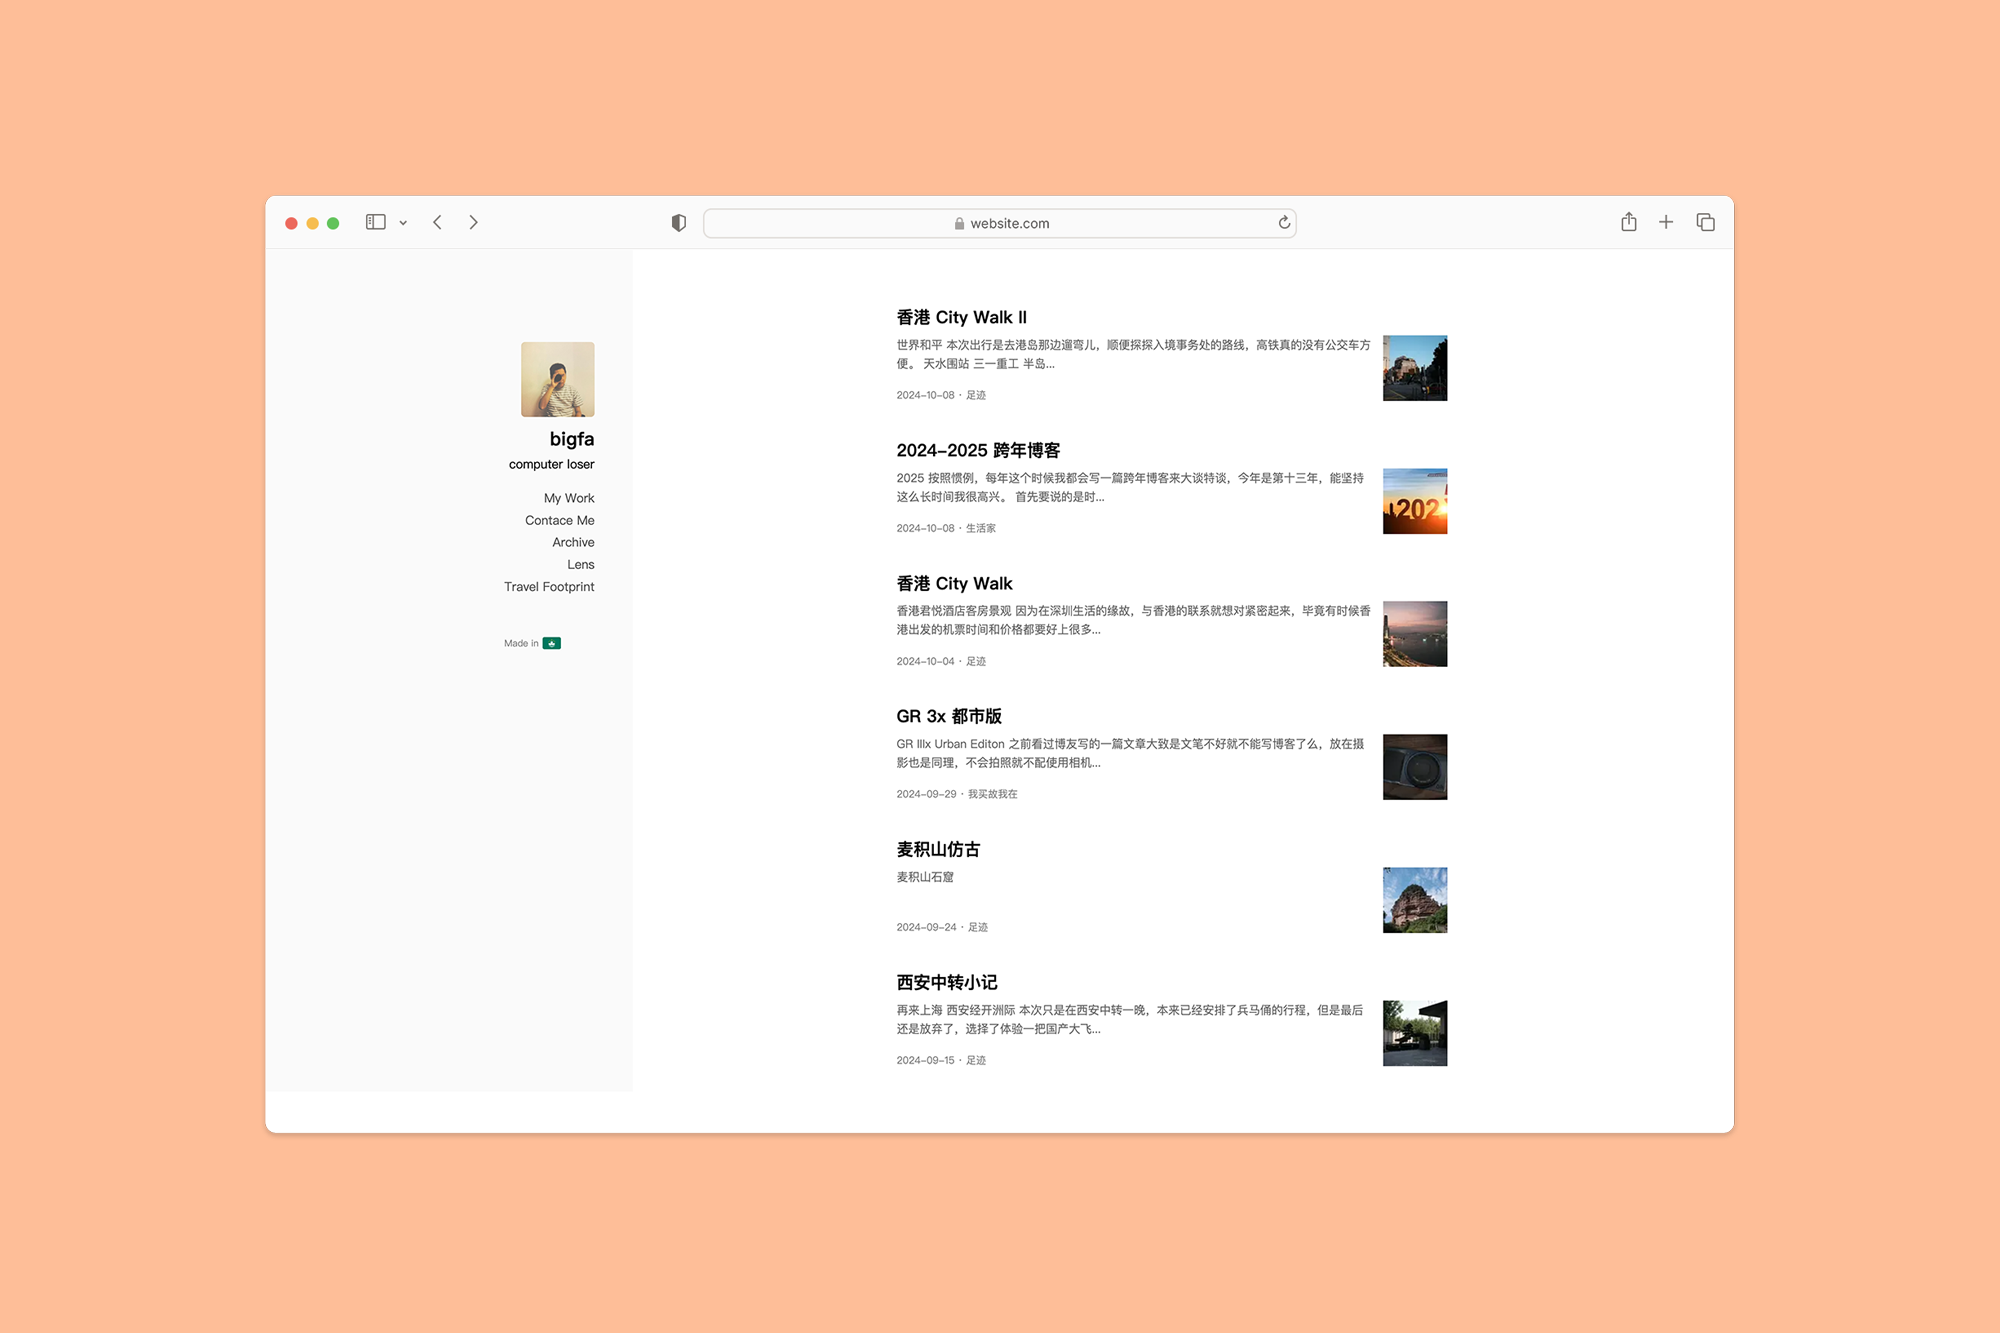
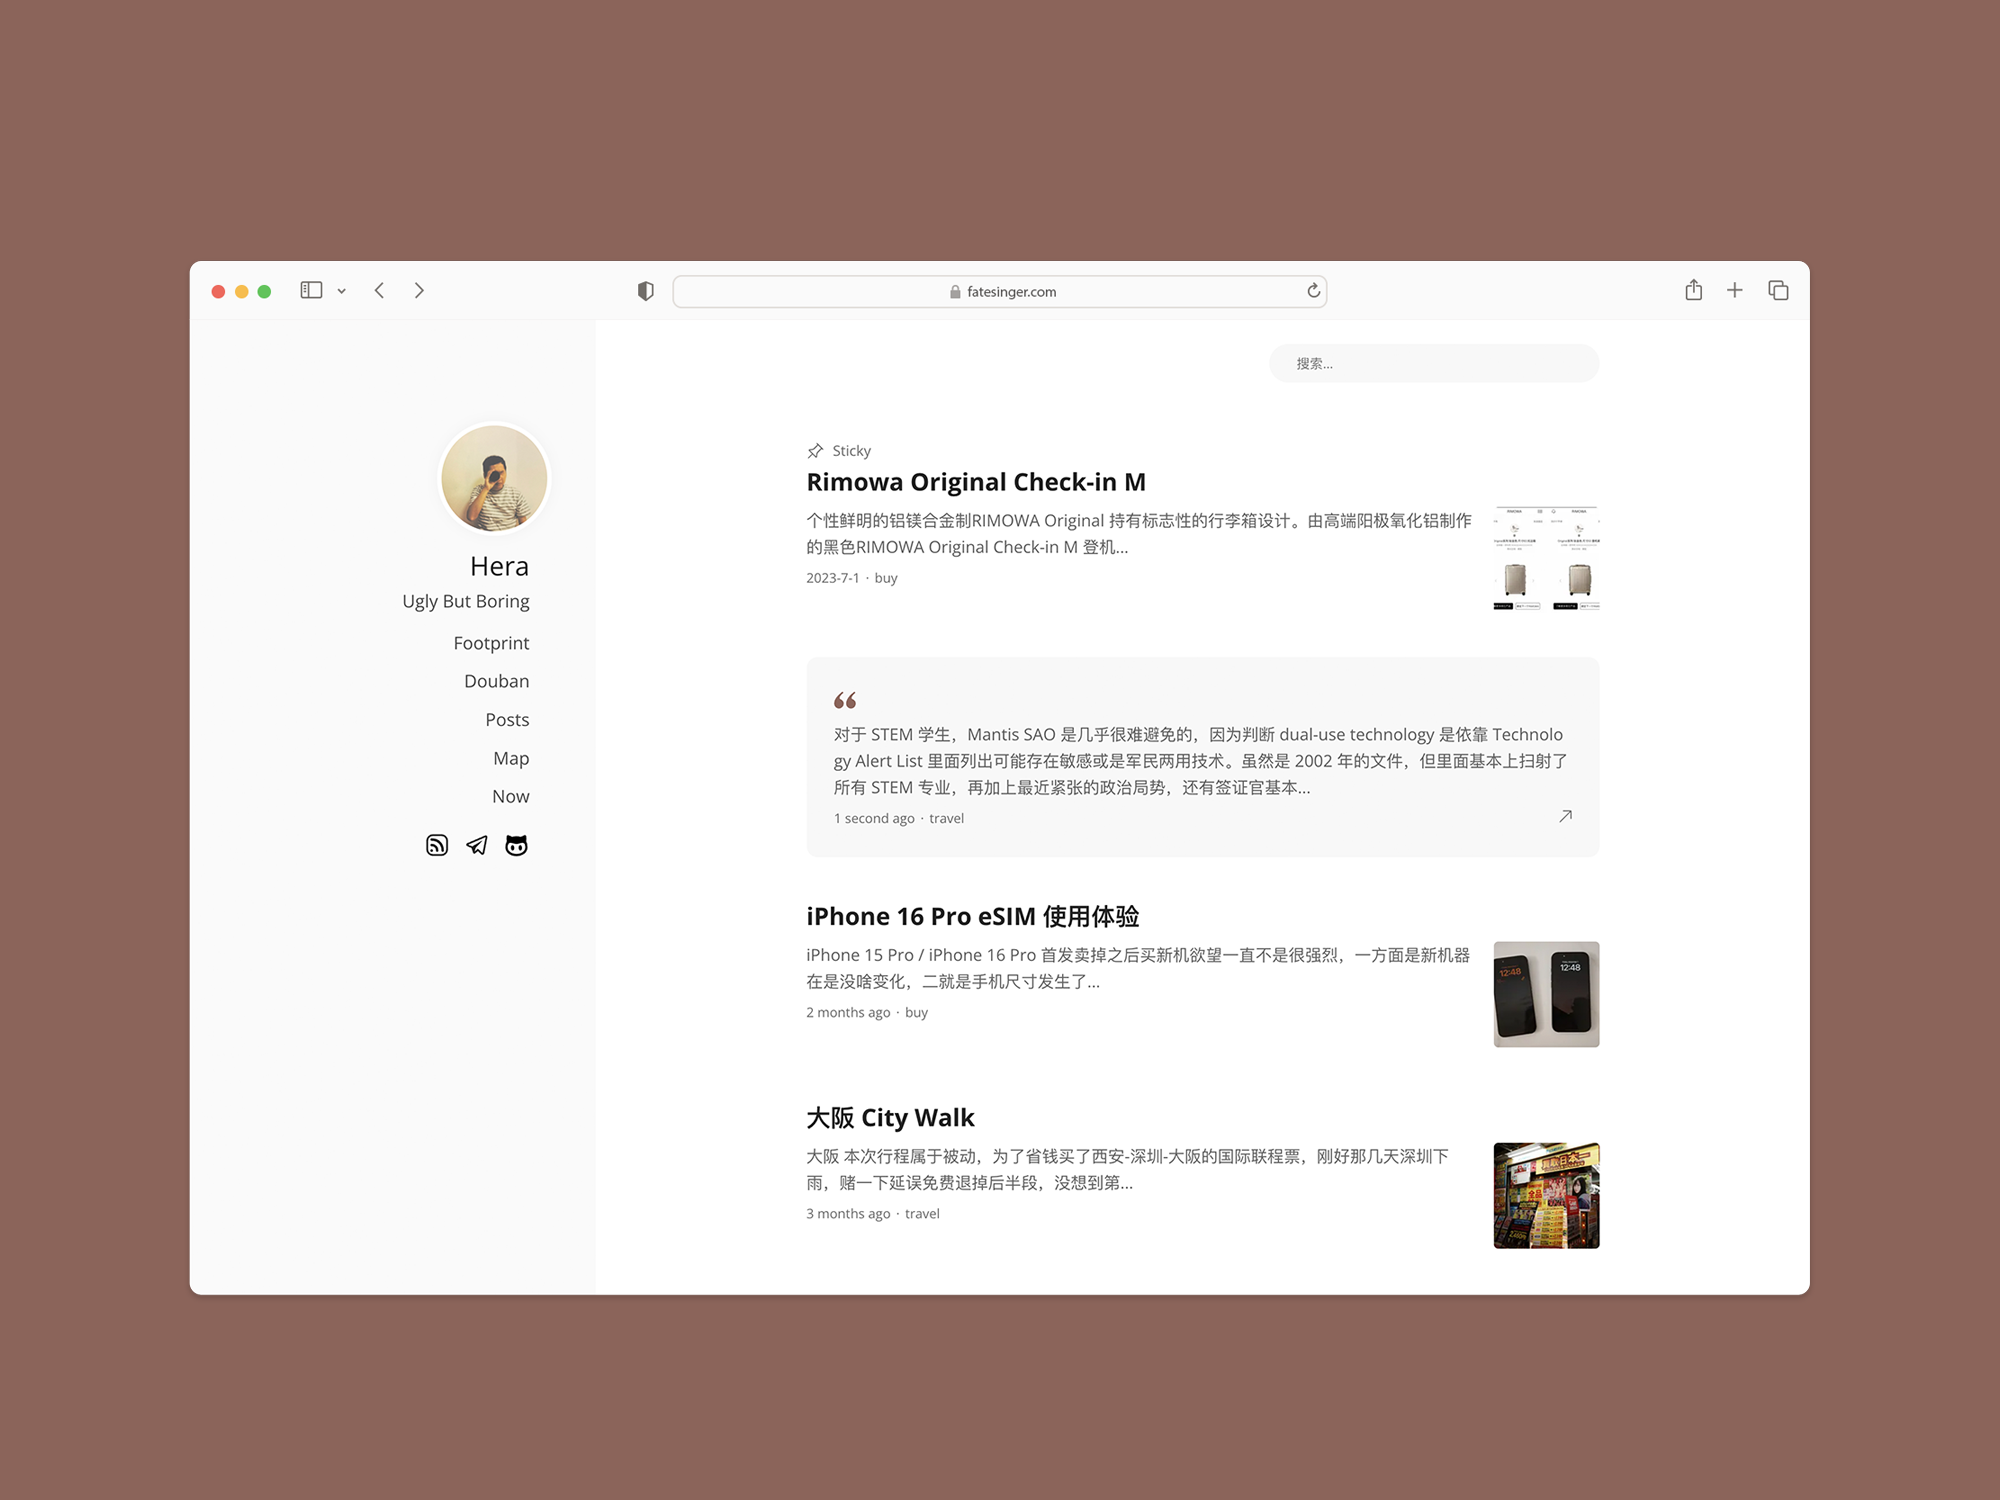
chore

diff --git a/README.md b/README.md
@@ -1,6 +1,6 @@
 # Hera
 
-![](https://static.fatesinger.com/2024/11/ypcms5j5idcpaihf.jpg)
+![](https://static.fatesinger.com/2024/12/2u80bhyxkmru4o9j.png)
 
 Hera is a simple single column wordpress theme with perfect performace and elegance design.
 

diff --git a/README_CN.md b/README_CN.md
@@ -1,6 +1,6 @@
 # Hera
 
-![](https://static.fatesinger.com/2024/11/ypcms5j5idcpaihf.jpg)
+![](https://static.fatesinger.com/2024/12/2u80bhyxkmru4o9j.png)
 
 本主题禁止各种修改作者链接打包重新发布的行为。
 
